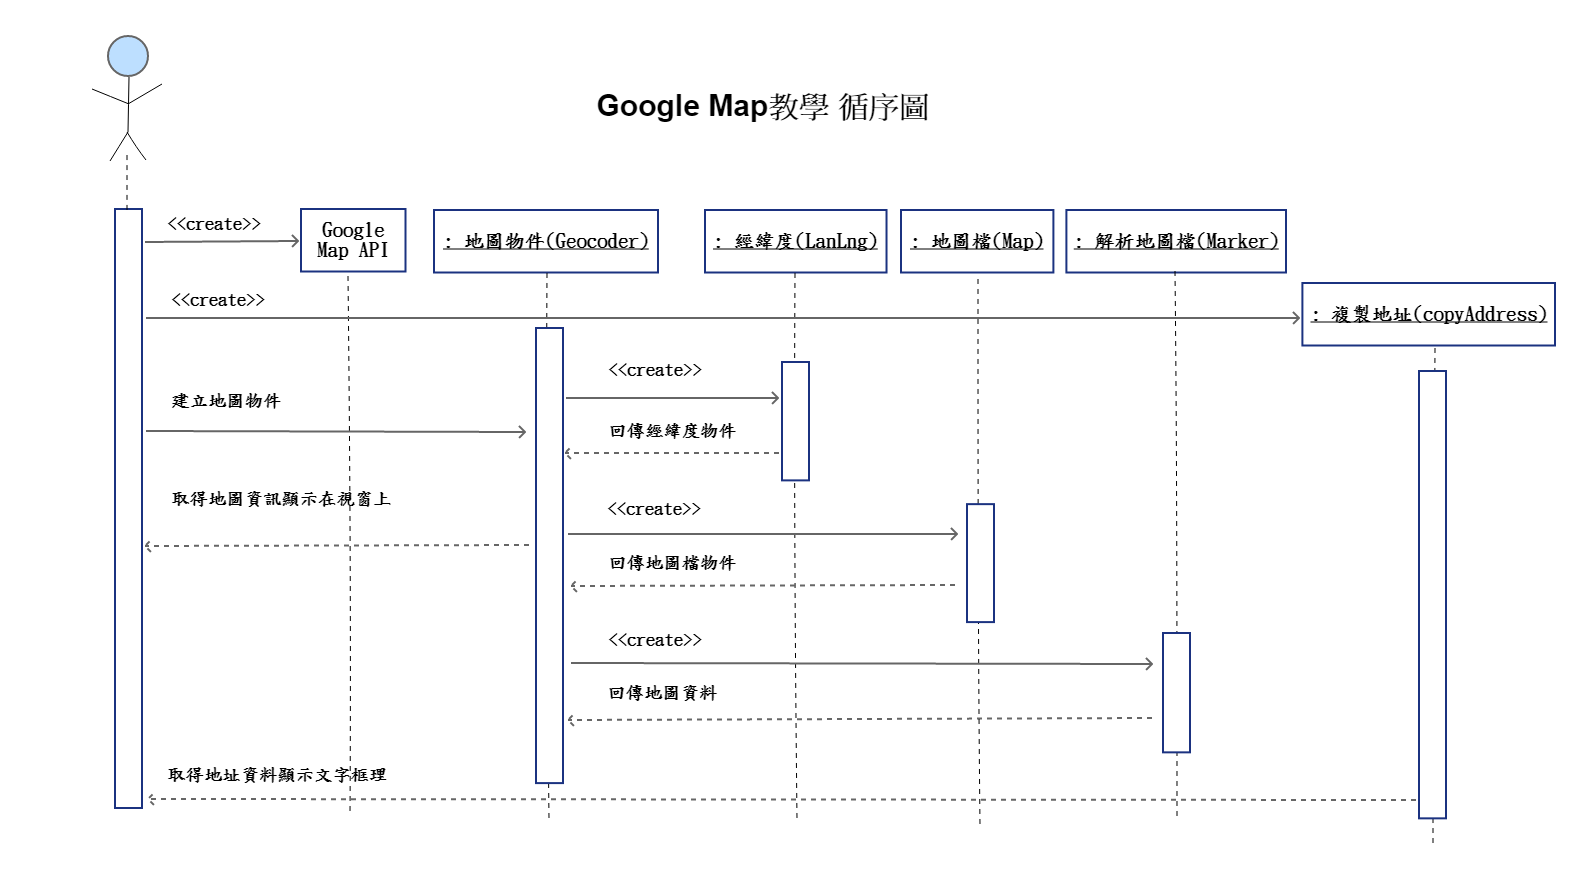
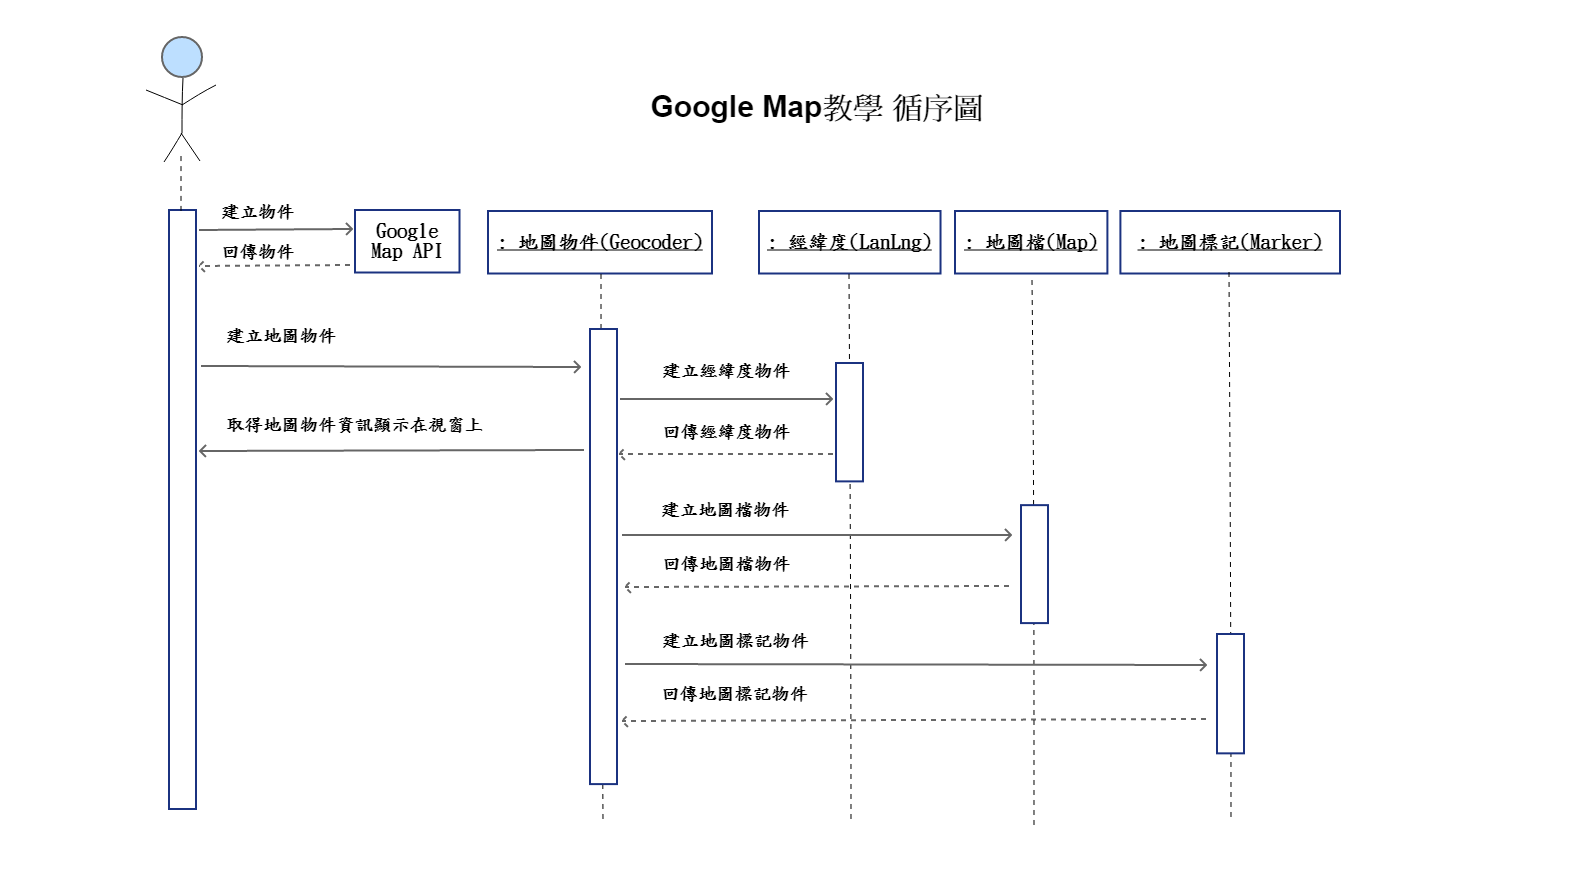
1.修改cookie、localstorage、sessionstorage文件 2.調整google map UML圖

diff --git a/cookie、localStorage、sessionStorage.md b/cookie、localStorage、sessionStorage.md
@@ -28,6 +28,13 @@ sessionStorage僅在當前畫面下有效，關閉頁面或瀏覽器後被清除
 
 | cookie          | localStorage         | sessionStorage   | 功能描述                                |
 | ----------------------- | ------------------------- | ------------------------------------------------ | --------------------------------------- |
-| 由瀏覽器產生cookie，需要關閉瀏覽器或生命週期過了才會被清除 | 除非被清除，否則永久保存  | 僅在當前畫面才有生效，關閉頁面或瀏覽器就會被清除 | 生命週期                                |
-| 4K左右                  | 一般都是5MB               	| 一般都是5MB |大小|
-| 由server請求傳遞，每次用http網頁，因為cookie資料過多帶來性能問題 | 只存在瀏覽器，不與server請求傳遞 | 只存在瀏覽器，不與server請求傳遞 | 與server傳遞資料                        |
+| 由瀏覽器產生cookie，需要關閉瀏覽器或生命週期過了才會被清除 | 除非被清除，否則無時間限制 | 記錄只存在目前頁面， | 生命週期-設定時間                           |
+| V | 無法透過瀏覽器的輔助功能清除 | 無法透過瀏覽器的輔助功能清除 | 生命週期-使用者使用自行清除 |
+| V | V                                      | V | 生命週期-網頁UI清除動作 |
+| 只會在有設定瀏覽器中存在，直接時間結束 | 除非關閉原本開的瀏覽器，否則無時間限制 | 除非關閉原本開的瀏覽器，否則無時間限制 | 生命週期-換瀏覽器使用 |
+| cookie只會在http網頁存取，存取一個變數為4KB | 存取一個變數為5MB         | 存取一個變數為5MB |大小|
+| 每次用http網頁，因為cookie資料過多會占用頻寬導致網頁效能很慢 | 只存在瀏覽器，不占用頻寬也不會影響網頁效能 | 只存在瀏覽器，不占用頻寬也不會影響網頁效能 | 與server傳遞資料                        |
+
+
+
+參考資料:[https://medium.com/@jscinin/javascript-cookie-localstorage-sessionstorage-%E4%B8%89%E7%A8%AE%E5%B7%AE%E7%95%B0-fe7f38260439](https://medium.com/@jscinin/javascript-cookie-localstorage-sessionstorage-三種差異-fe7f38260439)、<https://www.itread01.com/articles/1501797427.html>、<https://dotblogs.com.tw/shadow/2014/07/10/145879>
